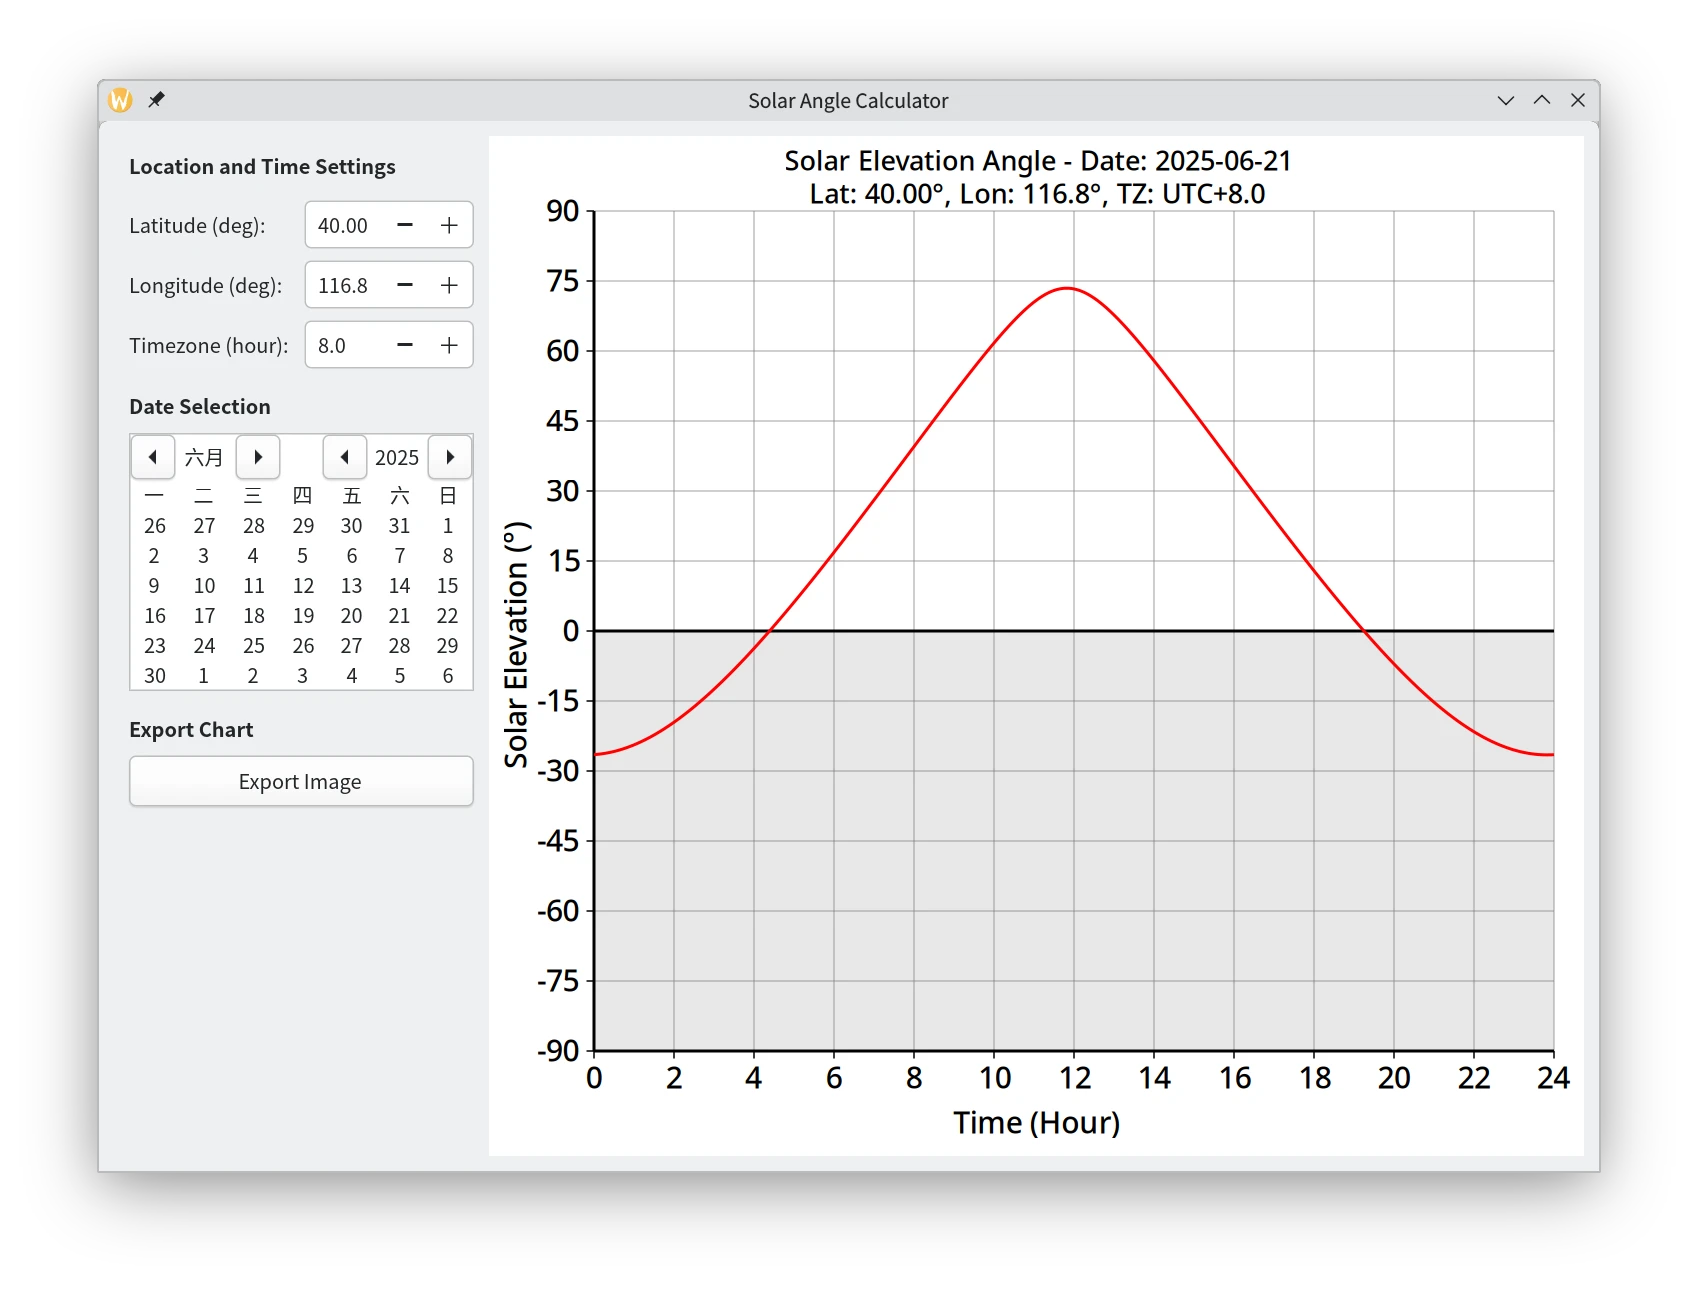
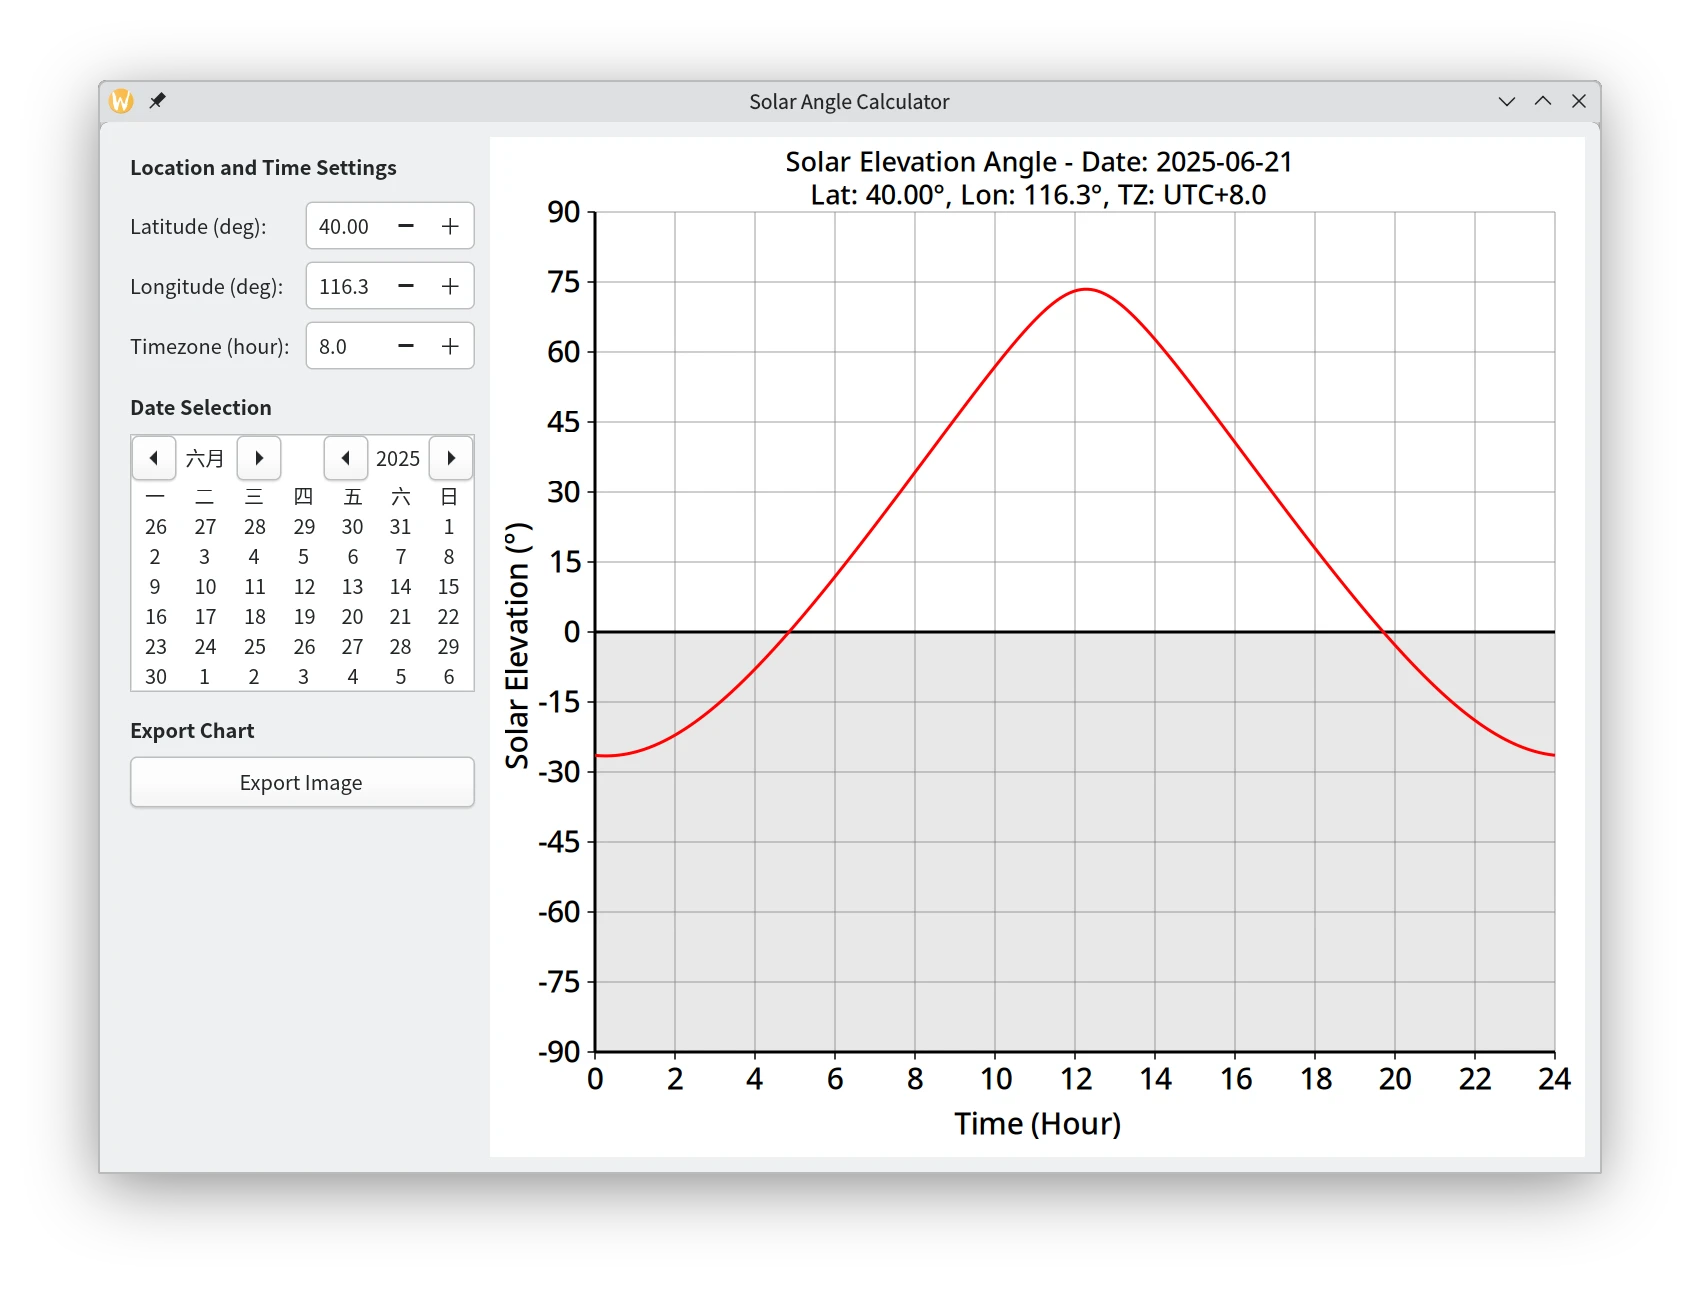
修正真太阳时计算公式中的符号错误，更新经度和时区偏移的说明

diff --git a/_posts/2025-02-05-GTK-Vala-Tutorial-2.md b/_posts/2025-02-05-GTK-Vala-Tutorial-2.md
@@ -599,8 +599,13 @@ public static int main (string[] args) {
       `eqtime_minutes = 229.18 * (0.000075 + 0.001868 * cos(gamma_rad) ...)`：计算均时差（分钟），真太阳时（True Solar Time，基于太阳真实位置）与均太阳时（Mean Solar Time，假设太阳匀速运行）之差，主要由地球轨道偏心率和黄赤交角引起，反映钟表时间和日晷时间的偏差。将本地平时（分钟 `i`）修正为真太阳时（分钟），以保证后续时角、太阳高度角计算的天文精度。
         - 真太阳时：基于太阳在天空中的实际位置计算，由于地球轨道离心率和黄赤交角的影响，真太阳日的长度在一年中变化可达±30秒。
         - 平太阳时：虚构一个匀速运动的“平太阳”作为参考，将一天固定为24小时（86,400秒），消除季节性波动。这是日常钟表时间的基准。
-    - **真太阳时 (True Solar Time, TST) 计算**：
-      `tst_minutes = i + eqtime_minutes - 4.0 * (longitude_deg - 15.0 * timezone_offset_hrs)`：将本地钟表时间（分钟 `i`）通过均时差和经度、时区修正，得到真太阳时（分钟）。
+    - **真太阳时 (True Solar Time, TST) 计算**：  
+      `tst_minutes = i + eqtime_minutes + 4.0 * longitude_deg - 60.0 * timezone_offset_hrs`  
+      将本地钟表时间（分钟 `i`）先加上均时差修正（`eqtime_minutes`），再加上因经度（每向东 1 度 +4 分钟）带来的分钟偏移，最后减去因时区带来的分钟差，得到真太阳时（分钟）。  
+      - `longitude_deg`：经度（度），正值为东经、负值为西经；  
+      - `timezone_offset_hrs`：时区偏移（小时），正值为东区、负值为西区；  
+      - `4.0 * longitude_deg`：将经度转换为分钟偏移；  
+      - `60.0 * timezone_offset_hrs`：将时区小时数转换为分钟偏移；
     - **时角 (Hour Angle, HA) 计算**：
       `ha_deg = (tst_minutes / 4.0) - 180.0`：根据真太阳时计算时角（度），表示太阳相对于本地子午线的角距离。
     - **太阳高度角计算**：
@@ -856,10 +861,10 @@ public class SolarAngleApp : Gtk.Application {
                 - 0.040849 * Math.sin (2.0 * gamma_rad));
 
             // True Solar Time (TST) in minutes, correcting local clock by EoT and longitude
-            double tst_minutes = i + eqtime_minutes - 4.0 * (longitude_deg - 15.0 * timezone_offset_hrs);
+            double tst_minutes = i + eqtime_minutes + 4.0 * longitude_deg - 60.0 * timezone_offset_hrs;
 
             // Hour angle H (°) relative to solar noon
-            double ha_deg = (tst_minutes / 4.0) - 180.0;
+            double ha_deg = tst_minutes / 4.0 - 180.0;
             double ha_rad = ha_deg * DEG2RAD;
 
             // cos(phi): cosine of zenith angle via spherical trig
